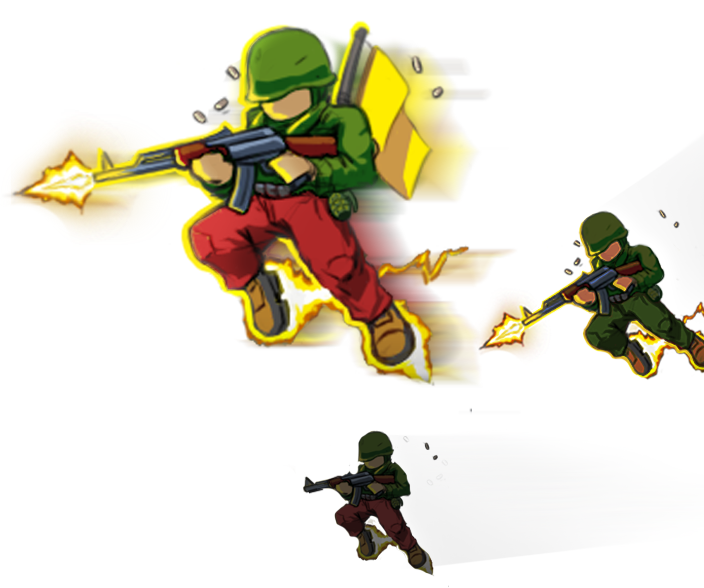
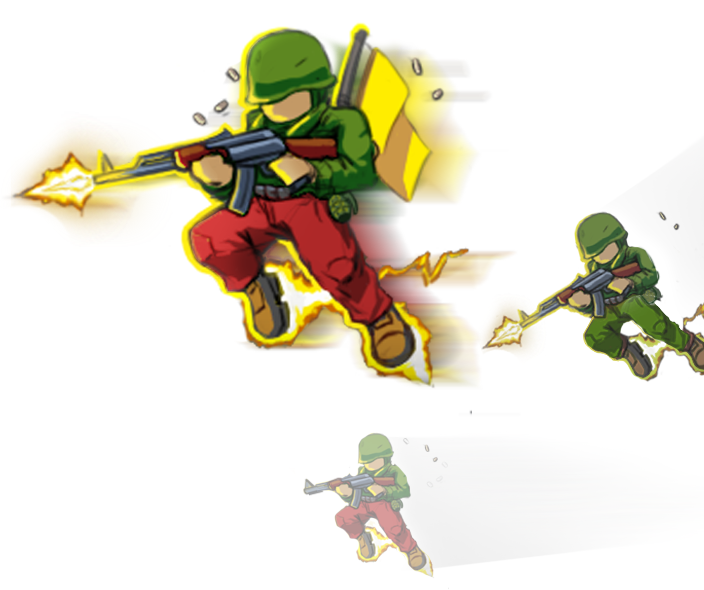
Fixed saturation for soldiers background image.

diff --git a/index.html b/index.html
@@ -33,7 +33,7 @@
             <div class="content">
                 <section class="full-width bg-opensoldat" style="padding-top: 80px; padding-bottom: 110px">
                     <a id="opensoldat"></a>
-                    <img src="img/bg-soldiers.png" class="img-soldiers">
+                    <div class="img-soldiers"></div>
                     <h1><mark>WHAT IS OPENSOLDAT</mark></h1>
                     <p>
                         Soldat is an exciting unique side-view multiplayer action game. Played by hundreds of players at this moment. It takes the best from games like Liero, Worms, Quake and Counter-Strike and gives you fast action gameplay with tons of blood and flesh. Little ragdoll soldiers fight against each other on 2D battle arenas using a deadly arsenal.<br>

diff --git a/style.css b/style.css
@@ -182,6 +182,9 @@ header .spacer {
 .img-soldiers {
     float: right;
     margin: -26px -80px 0 0;
+    width: 704px;
+    height: 590px;
+    background: url('img/bg-soldiers.png');
     shape-outside: url('img/bg-soldiers.png');
 }
 
